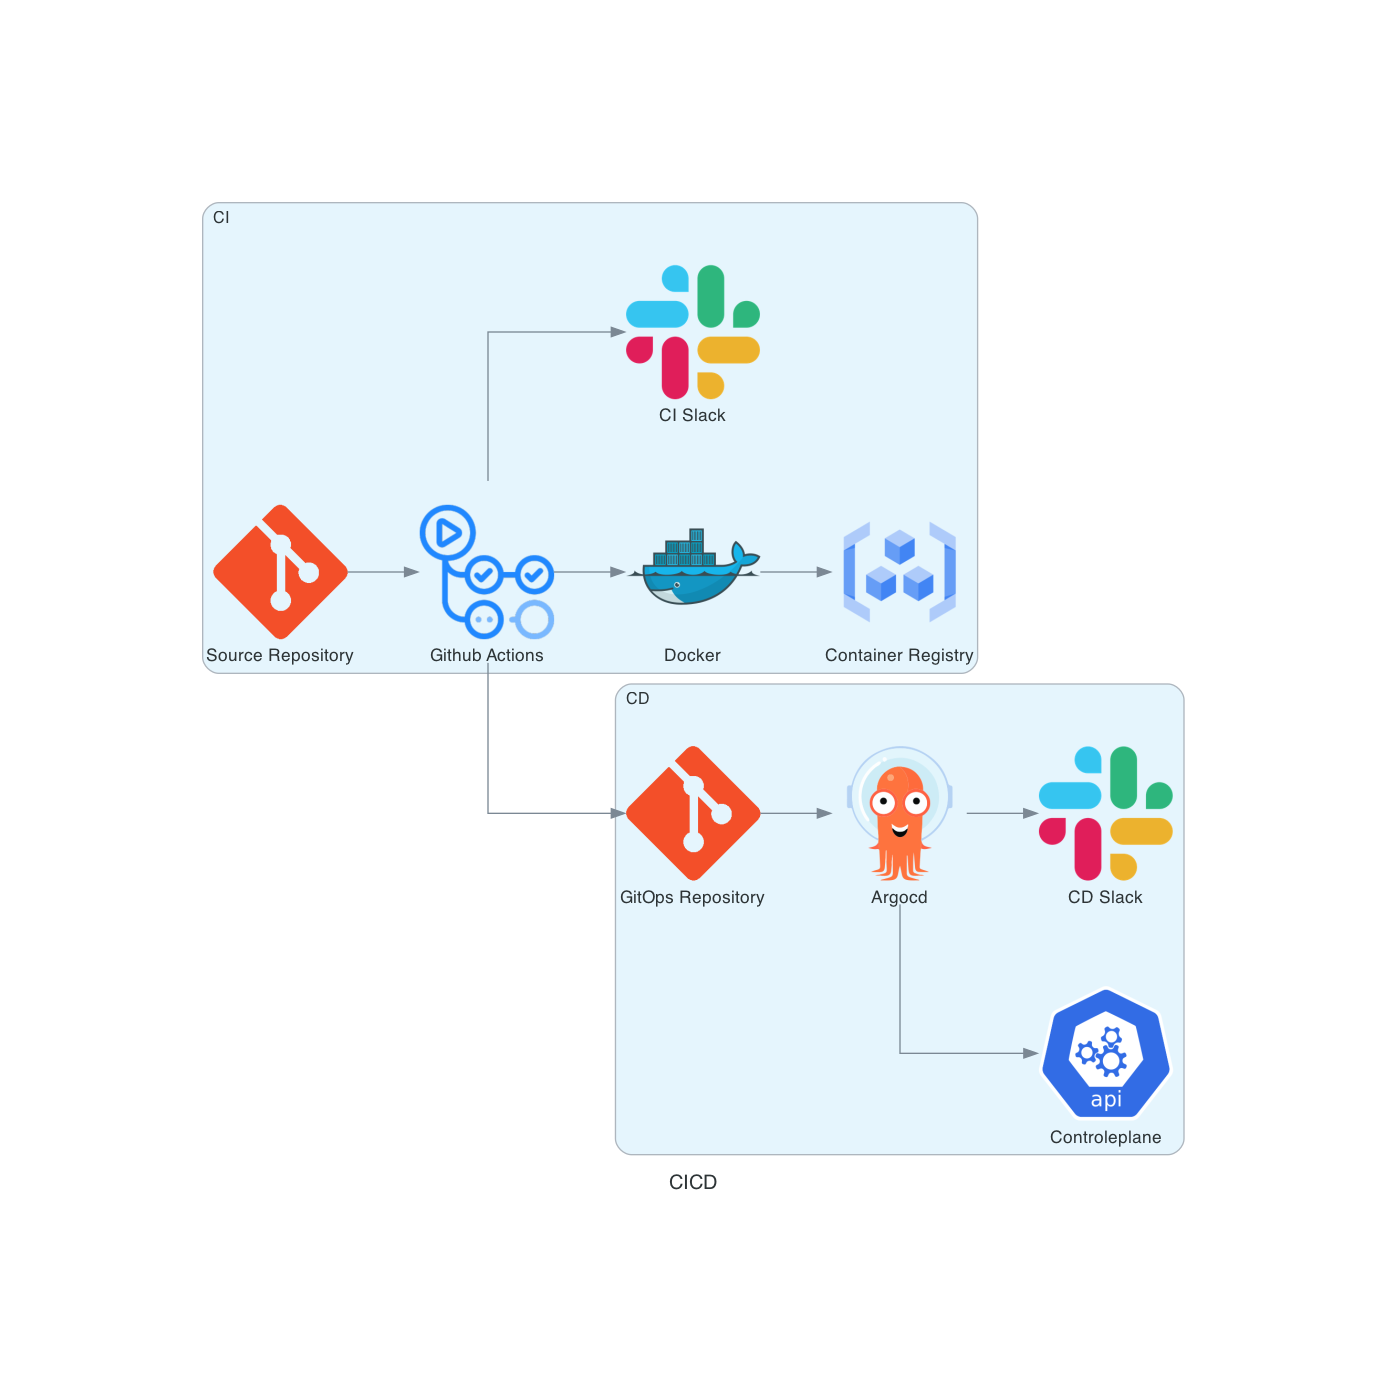
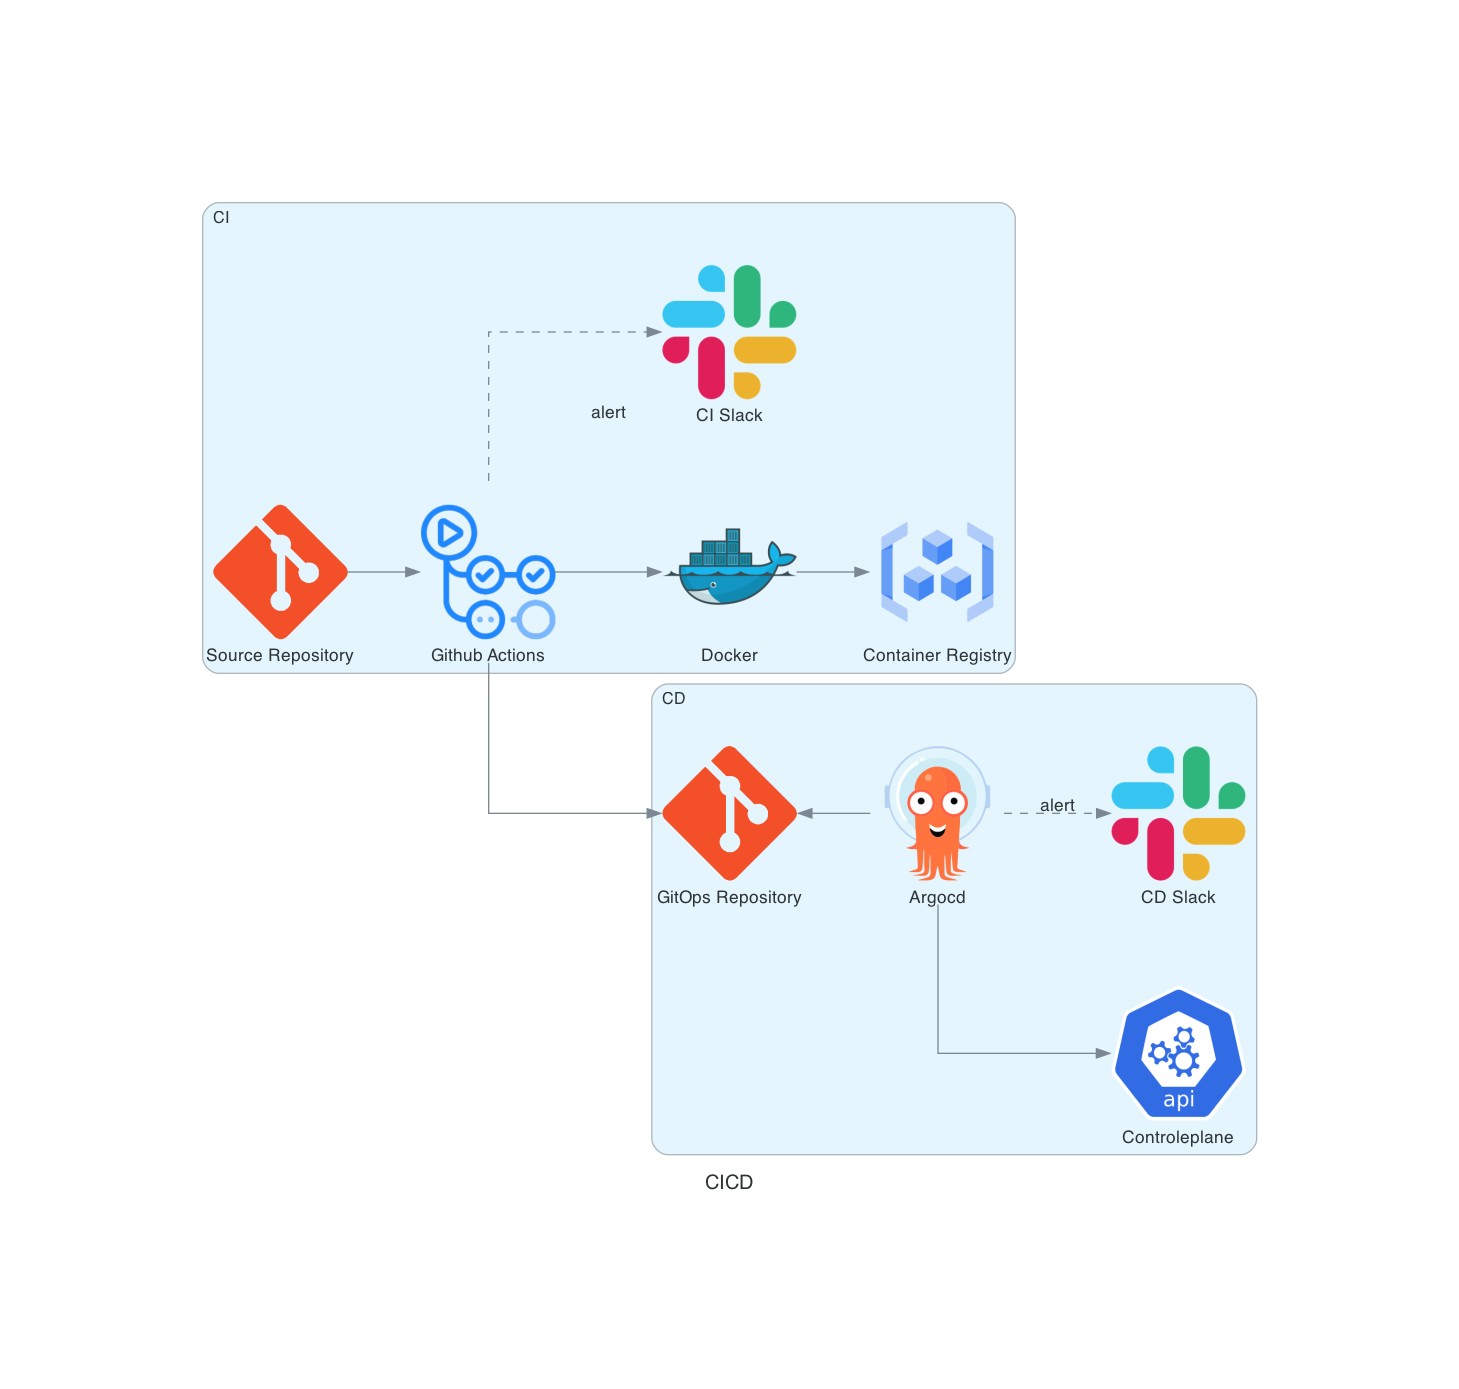
fix: styling diagram

diff --git a/cicd.py b/cicd.py
@@ -1,4 +1,4 @@
-from diagrams import Cluster, Diagram
+from diagrams import Cluster, Diagram, Edge
 from diagrams.onprem import ci, cd, gitops, container, vcs
 from diagrams.gcp import devtools
 from diagrams.saas import chat
@@ -12,12 +12,17 @@ with Diagram("CICD", filename="img/cicd", show=False):
         gcr = devtools.ContainerRegistry("Container Registry")
         CISlack = chat.Slack("CI Slack")
         git >> actions >> docker >> gcr
-        actions >> CISlack
+        actions \
+            - Edge(label="alert", style="dashed") \
+            >> CISlack
 
     with Cluster("CD"):
         argocd = gitops.Argocd("Argocd")
         gitopsRepo = vcs.Git("GitOps Repository")
         k8sControlPlane = controlplane.API("Controleplane")
         CDSlack = chat.Slack("CD Slack")
-        actions >> gitopsRepo >> argocd >> [k8sControlPlane, CDSlack]
+        actions >> gitopsRepo << argocd >> k8sControlPlane
+        argocd \
+            - Edge(label="alert", style="dashed") \
+            >> CDSlack
 

diff --git a/gcp.py b/gcp.py
@@ -12,8 +12,8 @@ with Diagram("GCP", filename="img/gcp", show=False):
     with Cluster("VPC"):
         vpc = network.VPC("VPC")
         with Cluster("Workloads"):
-            gke = compute.GKE("Google Kubernetes Engine Cluster")
-            gce = compute.GCE("Google Compute Engine Instance")
+            gke = compute.GKE("GKE")
+            gce = compute.GCE("Compute Engine")
         db = database.SQL("Postgres DB")
         lb >> vpc
         vpc >> gke >> gce >> db

diff --git a/k8s.py b/k8s.py
@@ -9,7 +9,7 @@ with (Diagram("K8s", filename="img/k8s", show=False)):
         with Cluster("Network"):
             ingressGateway = k8s_network.Ingress("Ingress Gateway")
             service = k8s_network.SVC("Service")
-            istio >> ingressGateway >> service
+            ingressGateway >> service
         with Cluster("Compute"):
             deployment = k8s_compute.Deployment("Deployment")
             hpa = k8s_clusterconfig.HPA("HPA")
